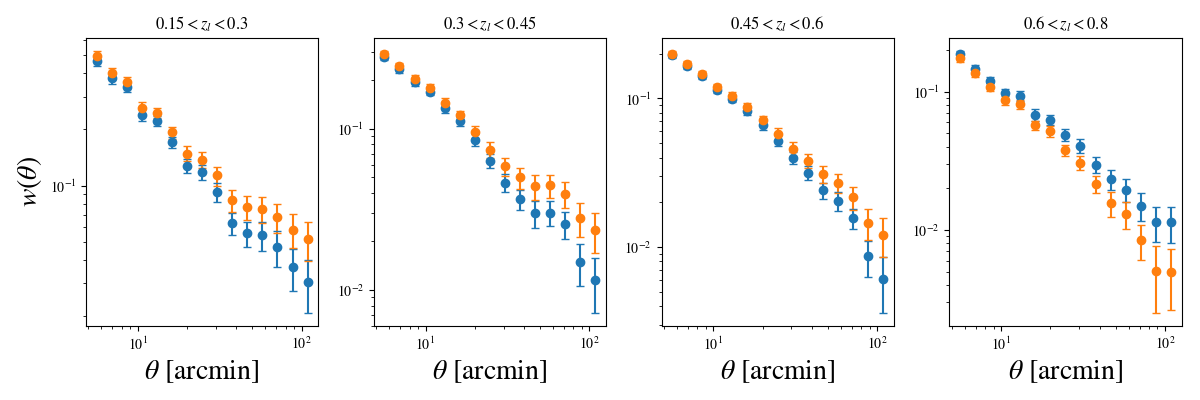
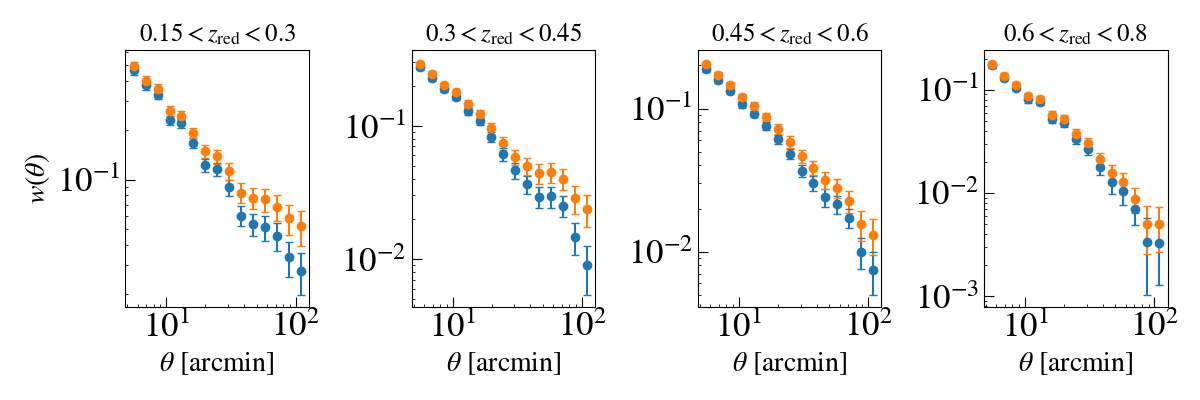
updated some of the plots

diff --git a/lrg_kids.tex b/lrg_kids.tex
@@ -309,6 +309,7 @@ In order to avoid confirmation bias we adopt the blinding scheme introduced in (
 
 The theoretical model summarized in equation~\ref{eq:clustering_theory} fails to capture the full complexity of galaxy-matter connection on small scales as it relies only on a simple linear deterministic treatment of galaxy bias. Therefore, we decide to apply a conservative cut on the comoving scales considered in our theoretical fittings. In particular, we adopt a cut at a comving scale of 8 $\mathrm{Mpc}h^{-1}$ which translates to the minimum angular scale (hereafter denoted by $\theta_{\rm min}$) of 30 arcmin for the first bin, 18.4 arcmin for the second bin, 14 arcmin for the third bin, and finally 11 arcmin for the last tomographic bin. The comoving distance is converted to angular scales assuming the flat LCDM cosmology discussed shortly above. Furthermore, the parameter $\theta_{\rm min}$ in each tomographic bin is calculated from the comoving distance at the mean redshift of the bin.
 
+
 \section{Summary}\label{sec:summary} 
 
 
@@ -352,25 +353,33 @@ The theoretical model summarized in equation~\ref{eq:clustering_theory} fails to
 \end{figure}
 
 
-\begin{figure*}
- \begin{tabular}{cc}
-\includegraphics[width=0.4\textwidth]{figures_tmp/nz_dense.png}
-\includegraphics[width=0.4\textwidth]{figures_tmp/nz_lum.png}
-\end{tabular}
-\caption{\label{fig:nz}  Tomographic redshift distributions of the lens and the source galaxies for the purpose of galaxy-galaxy lensing analysis. The Left and the middle panels show the redshift distributions of the dense and the luminous galaxies respectively. These galaxies are considered as lens galaxies in our lensing analysis. The redshift distributions of the lenses are estimated directly from the the individual red-sequence redshift estimates and their corresponding uncertainties. The right panel shows the redshift distributions of the source galaxies in the KiDS-1000 cosmic shear data. These redshift distributions are estimated from the DIR method taking advantage of the deep spectroscopic calibration fields targeted by KiDS.} 
-\end{figure*}
+\begin{figure}
+\includegraphics[width=\columnwidth]{figures_tmp/nofz.png}
+\caption{\label{fig:pz} Tomographic redshift distributions of our red galaxy sample in four bins: $0.15<z_{\rm red}<0.3, \;0.3<z_{\rm red}<0.45, \;0.45<z_{\rm red}<0.6, \;0.6<z_{\rm red}<0.8$.
+ The redshift distributions of the lenses are estimated directly from the the individual red-sequence redshift estimates and their corresponding uncertainties.} 
+\end{figure}
+
+
+%\begin{figure*}
+% \begin{tabular}{cc}
+%\includegraphics[width=0.4\textwidth]{figures_tmp/nz_dense.png}
+%\includegraphics[width=0.4\textwidth]{figures_tmp/nz_lum.png}
+%\end{tabular}
+%\caption{\label{fig:nz}  Tomographic redshift distributions of the lens and the source galaxies for the purpose of galaxy-galaxy lensing analysis. The Left and the middle panels show the redshift distributions of the dense and the luminous galaxies respectively. These galaxies are considered as lens galaxies in our lensing analysis. The redshift distributions of the lenses are estimated directly from the the individual red-sequence redshift estimates and their corresponding uncertainties. The right panel shows the redshift distributions of the source galaxies in the KiDS-1000 cosmic shear data. These redshift distributions are estimated from the DIR method taking advantage of the deep spectroscopic calibration fields targeted by KiDS.} 
+%\end{figure*}
 
 
 
 
 \begin{figure*}
 \includegraphics[width=\textwidth]{figures_tmp/xi.png}
-\caption{\label{fig:xi} Clustering measurements for the four tomographic bins. In each panel, the blue (orange) data-points correspond to the 2PCF computed using the organized (uniform) randoms.} 
+\caption{\label{fig:xi} Clustering measurements for the four tomographic bins. In each panel, the blue (orange) data-points correspond to the 2PCF computed with (without) the systematic weights.} 
 \end{figure*}
 
+
 \begin{figure*}
-\includegraphics[width=\textwidth]{figures_tmp/xi.png}
-\caption{\label{fig:xi} Clustering measurements for the four tomographic bins. In each panel, the blue (orange) data-points correspond to the 2PCF computed using the organized (uniform) randoms.} 
+\includegraphics[width=\textwidth]{figures_tmp/correlation_0_6.png}
+\caption{\label{fig:xi} Two correlation matrix corresponding to the angular clustering measurements in the last tomographic bin. One of the matrices is the original correlation matrix derived from the jackknife covariance matrix computed in section~\ref{sec:measurement}, while the other matrix is constructed with the method of~\citet{sellentin2019} such that the posterior value picks at some predefined value.} 
 \end{figure*}
 
 
